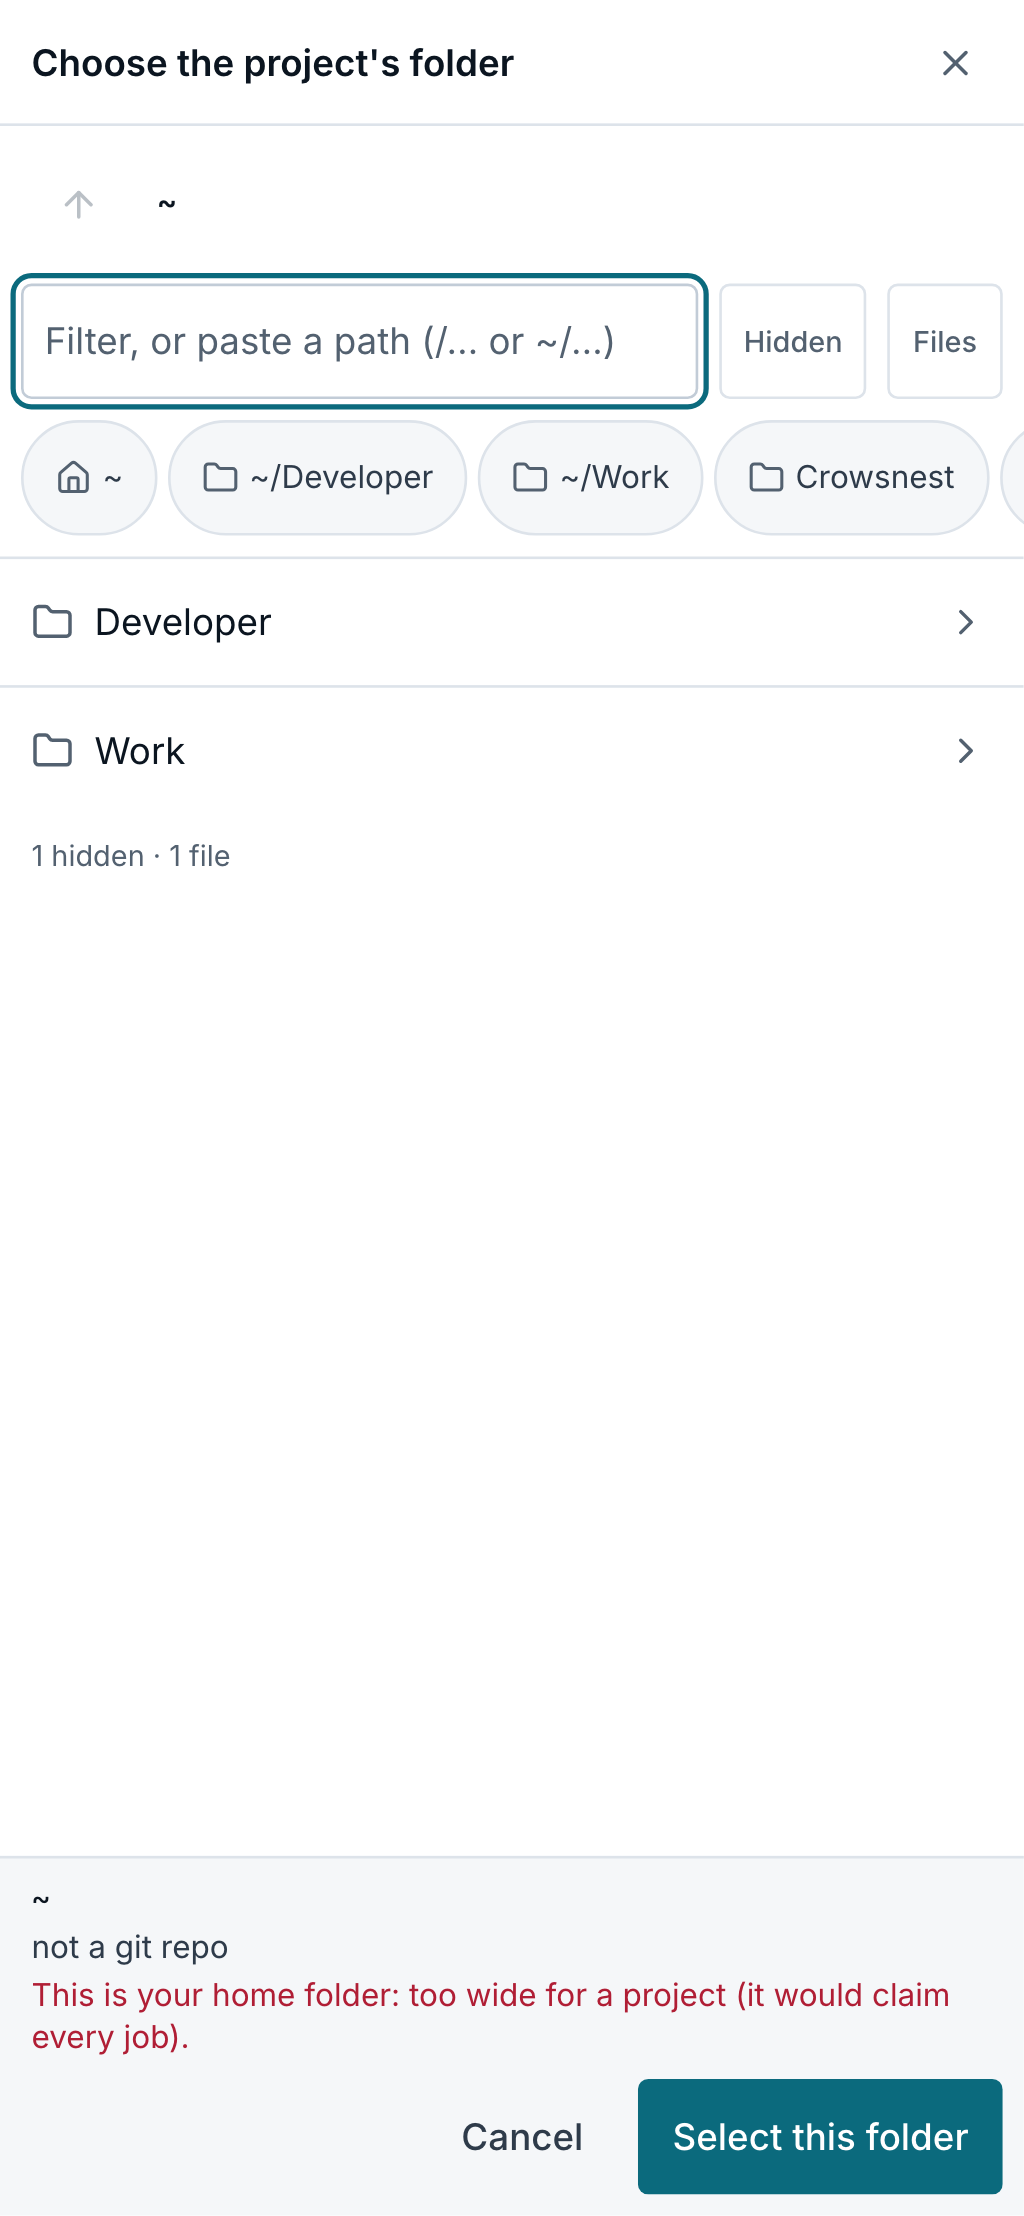
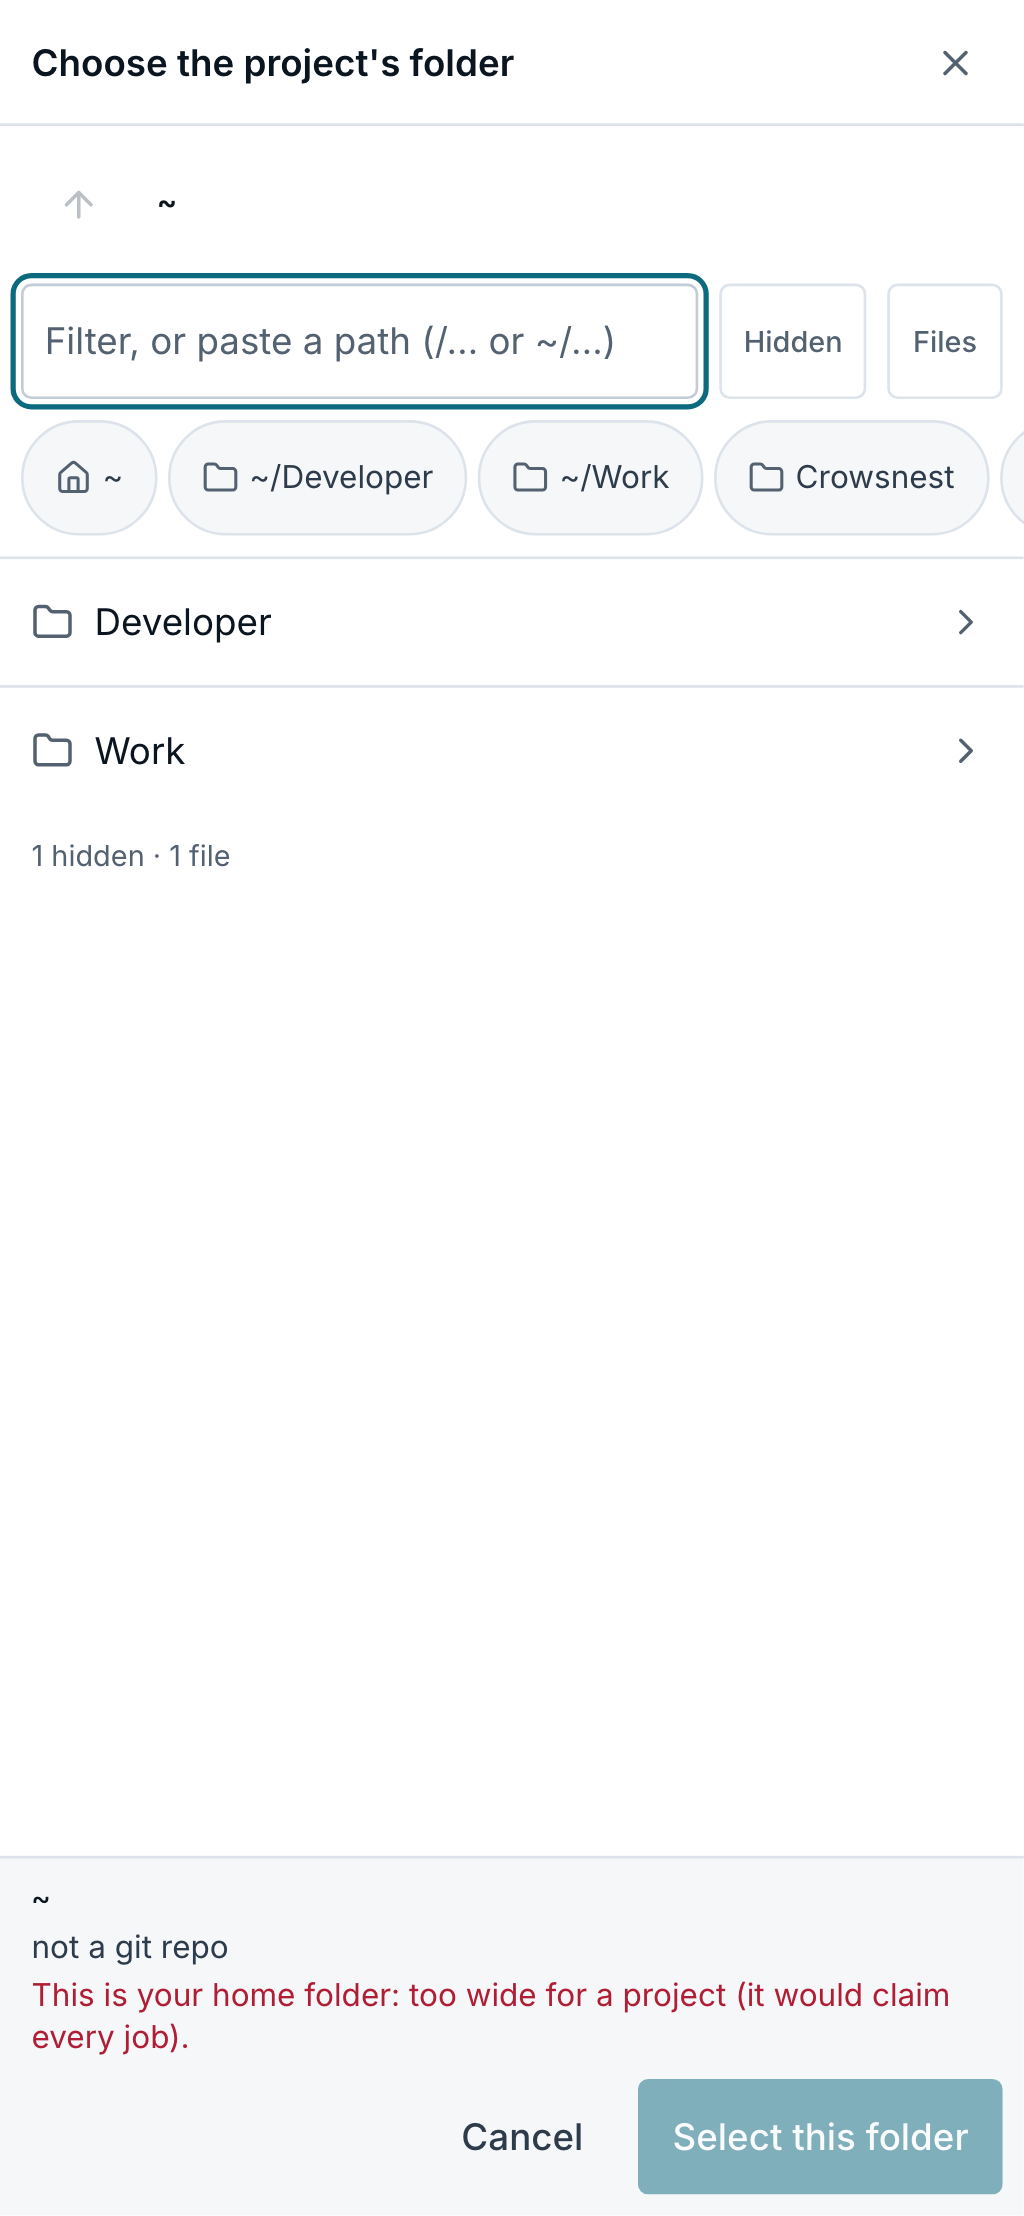
Folder picker enforces its own refusal; New project offers no worktrees (R10 O-B2, F-F14/O-F20)
Select this folder stays off on /, the home folder or an overlap, and after a refused pasted
path; the server refuses --demo's browse home as it refuses $HOME. No autofocus on touch.

Changed region(s): [[0.625, 0.9341, 1.0, 0.9964]]

diff --git a/web/src/components/browse/DirPicker.tsx b/web/src/components/browse/DirPicker.tsx
@@ -18,6 +18,7 @@ import {
   factsSummary,
   filterEntries,
   folderWarnings,
+  refusesFolder,
   hostNote,
   isPathInput,
   recentFolders,
@@ -31,6 +32,7 @@ import {
 } from "../../lib/browse";
 import { cn } from "../../lib/cn";
 import { relativeTime } from "../../lib/format";
+import { COARSE_POINTER_QUERY } from "../../lib/media";
 import { useBrowse, useBrowsePlaces, useFolderFacts } from "../../lib/queries";
 import { Button } from "../ui/Button";
 import { Sheet } from "../ui/Sheet";
@@ -109,7 +111,9 @@ function PickerBody({ onClose, onSelect, initialPath, purpose = "project" }: Omi
     const start = initialPath?.trim();
     void (async () => {
       if (!(start && (await go(start)))) await go("~");
-      if (!rootRef.current?.contains(document.activeElement)) filterRef.current?.focus();
+      // Not on a touch screen (R10 O-F20): the keyboard would cover half the list.
+      const touch = typeof window.matchMedia === "function" && window.matchMedia(COARSE_POINTER_QUERY).matches;
+      if (!touch && !rootRef.current?.contains(document.activeElement)) filterRef.current?.focus();
     })();
     // eslint-disable-next-line react-hooks/exhaustive-deps -- once, at opening
   }, []);
@@ -121,6 +125,10 @@ function PickerBody({ onClose, onSelect, initialPath, purpose = "project" }: Omi
   const factsPath = useDebounced(target, FACTS_DELAY_MS);
   const facts = useFolderFacts(factsPath);
   const currentFacts = facts.data && facts.data.path === target ? facts.data : undefined;
+  // Nothing to select: no folder, a pasted path that was refused (the listing stayed where it was,
+  // which is often home: Enter must not then choose home), or a folder this purpose refuses.
+  const refused = (!!error && !highlighted) || (purpose === "project" && (target === home || (!!currentFacts && refusesFolder(currentFacts, purpose))));
+  const selectable = !!target && !refused;
 
   // Keep the highlighted row in view as the keys move it.
   useEffect(() => {
@@ -136,7 +144,7 @@ function PickerBody({ onClose, onSelect, initialPath, purpose = "project" }: Omi
     if (entry && canEnter(entry)) void go(entry.path);
   };
   const select = () => {
-    if (!target) return;
+    if (!selectable) return;
     rememberFolder(target);
     onSelect(target, currentFacts);
     onClose();
@@ -243,7 +251,7 @@ function PickerBody({ onClose, onSelect, initialPath, purpose = "project" }: Omi
           <ListFooter listing={data} shown={shown.length} filtered={filter !== "" && !isPathInput(filter)} loading={listing.isPending && path !== ""} />
         </div>
       </div>
-      <FactsBar target={target} home={home} facts={currentFacts} loading={facts.isFetching} purpose={purpose} onCancel={onClose} onSelect={select} />
+      <FactsBar target={target} home={home} facts={currentFacts} loading={facts.isFetching} purpose={purpose} selectable={selectable} onCancel={onClose} onSelect={select} />
     </div>
   );
 }
@@ -465,12 +473,14 @@ interface FactsBarProps {
   facts?: FolderFacts;
   loading: boolean;
   purpose: "project" | "job";
+  /** False while a refusal is showing (or nothing is chosen): Select stays off. */
+  selectable: boolean;
   onCancel: () => void;
   onSelect: () => void;
 }
 
 /** The chosen folder, its facts and warnings, and the buttons: always in view. */
-function FactsBar({ target, home, facts, loading, purpose, onCancel, onSelect }: FactsBarProps) {
+function FactsBar({ target, home, facts, loading, purpose, selectable, onCancel, onSelect }: FactsBarProps) {
   const warnings = facts ? folderWarnings(facts, purpose) : [];
   const note = facts ? hostNote(facts) : "";
   return (
@@ -497,7 +507,7 @@ function FactsBar({ target, home, facts, loading, purpose, onCancel, onSelect }:
         <Button variant="ghost" onClick={onCancel}>
           Cancel
         </Button>
-        <Button variant="primary" onClick={onSelect} disabled={!target} title="Cmd/Ctrl+Enter">
+        <Button variant="primary" onClick={onSelect} disabled={!selectable} title="Cmd/Ctrl+Enter">
           Select this folder
         </Button>
       </div>

diff --git a/web/src/components/projects/ProjectForm.tsx b/web/src/components/projects/ProjectForm.tsx
@@ -9,8 +9,9 @@
 import { Check, ChevronDown, ChevronRight, FolderOpen, FolderSearch } from "lucide-react";
 import { useEffect, useId, useState, type FormEvent } from "react";
 import { factsSummary, folderWarnings, hostNote, isPathInput, type FolderFacts } from "../../lib/browse";
-import { leadStartLabels, permissionModes, suggestName, type AgentStartFinding, type LeadStart, type Project, type ProjectInput } from "../../lib/projects";
-import { useDirs, useEngines, useFolderFacts, useRoles } from "../../lib/queries";
+import { leadStartLabels, newProjectDirChoices, permissionModes, suggestName, type AgentStartFinding, type LeadStart, type Project, type ProjectInput } from "../../lib/projects";
+import { useDirs, useEngines, useFolderFacts, useProjects, useRoles } from "../../lib/queries";
+import { COARSE_POINTER_QUERY } from "../../lib/media";
 import { engineInfo, withoutSentence } from "../../lib/engines";
 import { DirPicker } from "../browse/DirPicker";
 import { Banner } from "../ui/Banner";
@@ -76,6 +77,7 @@ export function ProjectForm({ project, submitLabel, pending, error, onSubmit, on
   // start; until the facts say so (or the human chooses), unticked.
   const [trustChoice, setTrustChoice] = useState<boolean | null>(null);
   const dirs = useDirs();
+  const projects = useProjects();
   const roles = useRoles();
   const codexInfo = engineInfo(useEngines().data, "codex");
   const typed = useSettled(creating && isPathInput(dir) ? dir.trim() : "", TYPED_FACTS_DELAY_MS);
@@ -115,7 +117,9 @@ export function ProjectForm({ project, submitLabel, pending, error, onSubmit, on
     }, { checkCommand: checkCommand.trim(), detectedCheck: facts?.check_command ?? "", trustFolder: creating && trustFolder });
   };
 
-  const remembered = (dirs.data ?? []).slice(0, DIR_CHOICES);
+  const remembered = newProjectDirChoices(dirs.data ?? [], projects.data?.projects).slice(0, DIR_CHOICES);
+  // A phone's keyboard would cover the form and the Browse button: focus the path only with a mouse.
+  const finePointer = typeof window.matchMedia === "function" && !window.matchMedia(COARSE_POINTER_QUERY).matches;
   return (
     <form onSubmit={submit} aria-label={creating ? "New project" : "Edit project"} className="flex flex-col gap-3 p-4">
       <label className={labelClass}>
@@ -126,7 +130,7 @@ export function ProjectForm({ project, submitLabel, pending, error, onSubmit, on
           list={`${ids}-dirs`}
           placeholder="~/src/project"
           required
-          autoFocus={creating}
+          autoFocus={creating && finePointer}
           className={`${inputClass} font-mono`}
         />
         <datalist id={`${ids}-dirs`}>

diff --git a/web/e2e/hermetic/picker.spec.ts b/web/e2e/hermetic/picker.spec.ts
@@ -40,6 +40,8 @@ test("New project from the picker: browse to a repo, its facts, select it, the f
   await expect(dialog.getByRole("navigation", { name: "Places" }).filter({ visible: true }).getByRole("button", { name: /~\/Work/ })).toBeVisible();
   // Home itself is refused as a project, and the picker says so before anything is chosen.
   await expect(dialog.getByText(/your home folder: too wide/)).toBeVisible();
+  // ... and does not then let you choose it (R10 O-B2: Select stayed on and made a project there).
+  await expect(dialog.getByRole("button", { name: "Select this folder" })).toBeDisabled();
   await shot(page, testInfo, "home");
 
   await dialog.getByRole("button", { name: "Open Developer" }).click();
@@ -81,11 +83,17 @@ test("the palette's New project in…: a pasted path, a refused one, and an Azur
   const dialog = picker(page);
   await expect(folders(page, "~")).toBeVisible();
   const box = dialog.getByLabel("Filter folders, or paste a path");
-  await expect(box).toBeFocused();
+  // Focused with a mouse; on a touch screen the keyboard would cover half the list (R10 O-F20).
+  if (isPhone(testInfo)) await expect(box).not.toBeFocused();
+  else await expect(box).toBeFocused();
   await box.fill("/etc");
   await box.press("Enter");
   await expect(dialog.getByRole("alert")).toContainText("outside what the picker may browse");
   await expect(folders(page, "~")).toBeVisible();
+  // The refused path leaves nothing chosen: Enter again must not pick the home folder (R10 O-B2).
+  await expect(dialog.getByRole("button", { name: "Select this folder" })).toBeDisabled();
+  await box.press("Control+Enter");
+  await expect(dialog).toBeVisible();
 
   await box.fill("~/Developer/billing");
   await box.press("Enter");

diff --git a/web/src/lib/projects.ts b/web/src/lib/projects.ts
@@ -206,6 +206,31 @@ export function dirBasename(dir: string): string {
 }
 
 /** A project name suggested from a directory: its basename, words capitalised ("web-site" → "Web site"). */
+/**
+ * True when dir is a job's worktree (herdr's ~/.herdr/worktrees/…, or a .worktrees folder) or
+ * crowsnest's own data (the orchestrator's folder under ~/.local/share/crowsnest).
+ */
+export function isWorktreeDir(dir: string): boolean {
+  return /\/\.herdr\/worktrees\/|\/\.worktrees(\/|$)|\/\.local\/share\/crowsnest(\/|$)/.test(dir);
+}
+
+/**
+ * The remembered directories worth offering as a new project (R10 F-F14 / O-F20): never a job's
+ * worktree (job-120-checkout-redesign is not a project) and never a folder already in, or
+ * around, a live project, which the server refuses as an overlap.
+ */
+export function newProjectDirChoices<T extends { path: string }>(dirs: T[], projects: Pick<Project, "dir">[] | undefined): T[] {
+  const roots = (projects ?? []).map((project) => project.dir.replace(/\/+$/, ""));
+  // A folder with a project's own name is left out too: a suggestion list loses little, and the
+  // same checkout is often seen under another spelling (~/src/site, a link, /private/tmp).
+  const names = new Set(roots.map(dirBasename));
+  const overlaps = (path: string) => roots.some((root) => path === root || path.startsWith(`${root}/`) || root.startsWith(`${path}/`));
+  return dirs.filter((entry) => {
+    const path = entry.path.replace(/\/+$/, "");
+    return !isWorktreeDir(path) && !overlaps(path) && !names.has(dirBasename(path));
+  });
+}
+
 export function suggestName(dir: string): string {
   const base = dirBasename(dir).replace(/^\./, "");
   if (!base || base === "~") return "";

diff --git a/web/src/lib/browse.test.ts b/web/src/lib/browse.test.ts
@@ -1,5 +1,5 @@
 import { describe, expect, it } from "vitest";
-import { factsSummary, filterEntries, folderWarnings, hostNote, isPathInput, tildePath, type BrowseEntry, type FolderFacts } from "./browse";
+import { factsSummary, filterEntries, folderWarnings, hostNote, isPathInput, refusesFolder, tildePath, type BrowseEntry, type FolderFacts } from "./browse";
 
 function entry(name: string, extra: Partial<BrowseEntry> = {}): BrowseEntry {
   return { name, path: `/h/${name}`, dir: true, git: false, symlink: false, hidden: false, mtime: "", readable: true, ...extra };
@@ -77,5 +77,21 @@ describe("tildePath", () => {
     expect(tildePath("/h", "/h")).toBe("~");
     expect(tildePath("/h/x", "/h")).toBe("~/x");
     expect(tildePath("/hx", "/h")).toBe("/hx");
+  });
+});
+
+// R10 O-B2: the picker warned "too wide for a project" and then selected the home folder anyway.
+describe("refusesFolder", () => {
+  it("refuses, for a project, every folder it warns about in red", () => {
+    expect(refusesFolder(facts({ is_home: true }))).toBe(true);
+    expect(refusesFolder(facts({ is_filesystem_root: true }))).toBe(true);
+    expect(refusesFolder(facts({ project: { id: 1, slug: "site", name: "Site", dir: "/h/acme", exact: true } }))).toBe(true);
+    expect(refusesFolder(facts({ contains: [{ id: 1, slug: "site", name: "Site", dir: "/h/acme/site", exact: false }] }))).toBe(true);
+    expect(refusesFolder(facts())).toBe(false);
+    expect(refusesFolder(facts({ git: false }))).toBe(false); // a warning, not a refusal
+  });
+
+  it("refuses nothing for a job, which may run anywhere it is pointed", () => {
+    expect(refusesFolder(facts({ is_home: true }), "job")).toBe(false);
   });
 });

diff --git a/web/src/lib/projects.test.ts b/web/src/lib/projects.test.ts
@@ -6,9 +6,11 @@ import {
   filterFromParam,
   filterJobs,
   filterToParam,
+  isWorktreeDir,
   leadAgentName,
   leadChip,
   loadProjectFilter,
+  newProjectDirChoices,
   PROJECT_FILTER_KEY,
   resolveProjectFilter,
   saveProjectFilter,
@@ -116,5 +118,24 @@ describe("Chat's default target", () => {
     expect(defaultChatTarget({ state: "disabled" }, [lead("a", false), lead("b", true)])).toBe("lead-b");
     expect(defaultChatTarget({ state: "disabled" }, [lead("a", false)])).toBe("lead-a");
     expect(defaultChatTarget({ state: "disabled" }, [])).toBe("orchestrator");
+  });
+});
+
+// R10 F-F14 / O-F20: New project offered job-120-checkout-redesign before crowsnest.
+describe("a new project's directory choices", () => {
+  it("leaves out job worktrees and folders in or around a live project", () => {
+    const dirs = [
+      { path: "/h/src/.worktrees/job-120-checkout-redesign" },
+      { path: "/h/.herdr/worktrees/crowsnest/wip-ux1b" },
+      { path: "/h/src/website" },
+      { path: "/h/src/website/docs" },
+      { path: "/h/src" },
+      { path: "/h/src/mobile" },
+      { path: "~/src/website" }, // the same checkout, spelt another way
+      { path: "~/.local/share/crowsnest/orchestrator" },
+    ];
+    expect(newProjectDirChoices(dirs, [{ dir: "/h/src/website/" }]).map((entry) => entry.path)).toEqual(["/h/src/mobile"]);
+    expect(isWorktreeDir("/h/src/.worktrees")).toBe(true);
+    expect(isWorktreeDir("/h/src/worktrees-app")).toBe(false);
   });
 });

diff --git a/web/src/lib/browse.ts b/web/src/lib/browse.ts
@@ -192,6 +192,15 @@ export function folderWarnings(facts: FolderFacts, purpose: "project" | "job" = 
   return out;
 }
 
+/**
+ * True when the picker must not offer the folder at all (R10 O-B2): for a project, every danger
+ * warning (/, the home folder, an overlap) is a refusal the server makes too, so Select this folder
+ * stays off rather than warning and then letting it through.
+ */
+export function refusesFolder(facts: FolderFacts, purpose: "project" | "job" = "project"): boolean {
+  return purpose === "project" && folderWarnings(facts, purpose).some((warning) => warning.tone === "danger");
+}
+
 /** What Land can do with this folder's remote (pull requests are GitHub's only, through gh). */
 export function hostNote(facts: FolderFacts): string {
   if (!facts.git) return "";

diff --git a/internal/projects/projects_test.go b/internal/projects/projects_test.go
@@ -40,6 +40,28 @@ func mkdir(t *testing.T, path string) string {
 	return path
 }
 
+// R10 O-B2: under --demo the picker's home is <state>/demo-home; the picker said it was too wide
+// for a project and the server made one anyway. Other homes are refused as $HOME is.
+func TestCreateRefusesOtherHomes(t *testing.T) {
+	db, err := store.OpenMemory(context.Background())
+	if err != nil {
+		t.Fatal(err)
+	}
+	t.Cleanup(func() { _ = db.Close() })
+	home, demoHome := t.TempDir(), t.TempDir()
+	repo := mkdir(t, filepath.Join(demoHome, "Work", "site"))
+	svc := New(Options{Store: db, Home: home, OtherHomes: []string{demoHome}, Roles: func(string) bool { return true }})
+	ctx := context.Background()
+	for _, dir := range []string{demoHome, filepath.Dir(demoHome)} {
+		if _, err := svc.Create(ctx, Input{Name: ptr("x"), Dir: ptr(dir)}); err == nil || !contains(err.Error(), "too wide") {
+			t.Fatalf("%s: err %v, want too wide", dir, err)
+		}
+	}
+	if _, err := svc.Create(ctx, Input{Name: ptr("site"), Dir: ptr(repo)}); err != nil {
+		t.Fatalf("a repository under the other home is fine: %v", err)
+	}
+}
+
 func TestCreateValidates(t *testing.T) {
 	svc, _, home := newService(t)
 	ctx := context.Background()

diff --git a/cmd/crowsnest/browse_wiring.go b/cmd/crowsnest/browse_wiring.go
@@ -37,7 +37,7 @@ func newBrowser(cfg config.Config, sources browserSources) *browse.Service {
 	trust := &claudeTrust{path: claudeGlobalConfig(home)}
 	trusted := trust.trusted
 	if cfg.Demo {
-		home = filepath.Join(cfg.StateDir, "demo-home")
+		home = demoBrowseHome(cfg)
 		trusted = nil // the demo's folders are made up: nothing to tell
 	}
 	return browse.New(browse.Options{
@@ -149,9 +149,13 @@ var demoTreeFiles = map[string]string{
 	"todo.txt":                                         "the demo's file\n",
 }
 
+// demoBrowseHome is the folder picker's home under --demo: a small made-up tree, never the
+// machine's own home (DESIGN.md 4.23).
+func demoBrowseHome(cfg config.Config) string { return filepath.Join(cfg.StateDir, "demo-home") }
+
 // seedDemoTree writes the demo's home under its state directory (idempotent).
 func seedDemoTree(cfg config.Config) error {
-	home := filepath.Join(cfg.StateDir, "demo-home")
+	home := demoBrowseHome(cfg)
 	for name, body := range demoTreeFiles {
 		path := filepath.Join(home, name)
 		if err := os.MkdirAll(filepath.Dir(path), 0o700); err != nil {

diff --git a/internal/projects/projects.go b/internal/projects/projects.go
@@ -106,6 +106,9 @@ type Options struct {
 	Hub   *hub.Hub // nil: no `project` events
 	Roles RoleChecker
 	Home  string // $HOME, refused as a project root (and its ancestors)
+	// OtherHomes are refused exactly as Home is. Under --demo the folder picker's home is a
+	// throwaway tree (<state>/demo-home), and a project on it claimed every job (R10 O-B2).
+	OtherHomes []string
 	Now   func() time.Time
 }
 
@@ -356,6 +359,11 @@ func (s *Service) applyDir(ctx context.Context, record *store.ProjectRecord, dir
 	cleaned, resolved, err := CheckDir(dir, s.opts.Home)
 	if err != nil {
 		return err
+	}
+	for _, home := range s.opts.OtherHomes {
+		if _, _, err := CheckDir(cleaned, home); err != nil {
+			return err
+		}
 	}
 	record.Dir, record.RootDir = cleaned, resolved
 	if !record.ArchivedAt.IsZero() {

diff --git a/cmd/crowsnest/projects.go b/cmd/crowsnest/projects.go
@@ -61,7 +61,11 @@ func (w *projectWiring) useUpkeep(upkeep leadUpkeep) { w.upkeep.Store(&upkeep) }
 func newProjectWiring(cfg config.Config, db *store.Store, events *hub.Hub) *projectWiring {
 	roles, _ := jobs.LoadRoles(rolesDir(cfg))
 	home, _ := os.UserHomeDir()
-	return &projectWiring{service: projects.New(projects.Options{Store: db, Hub: events, Roles: roles.Has, Home: home})}
+	var otherHomes []string
+	if cfg.Demo {
+		otherHomes = []string{demoBrowseHome(cfg)}
+	}
+	return &projectWiring{service: projects.New(projects.Options{Store: db, Hub: events, Roles: roles.Has, Home: home, OtherHomes: otherHomes})}
 }
 
 // source is the jobs service's view of projects and leads.

diff --git a/DESIGN.md b/DESIGN.md
@@ -3740,7 +3740,13 @@ and workspace directories, and this browser's last eight choices in `localStorag
 badged and floated first, and a bar that never scrolls away with the highlighted folder's facts
 in a line ("git repo on GitHub, branch main, has a check task, AGENTS.md present"), what Land can
 do with its remote, the warnings (`lib/browse.ts`: not a repository, below a repository's top,
-inside or around a project, `$HOME` or `/`) and Select this folder. Keys in the box or on a row:
+inside or around a project, `$HOME` or `/`) and Select this folder, which stays off while a
+project's refusal shows or a pasted path was refused (R10 O-B2: it warned and then let the
+home folder through; `refusesFolder`; the server also refuses `--demo`'s browse home as it
+refuses `$HOME`, `projects.Options.OtherHomes`). New project's remembered directories leave out
+job worktrees, crowsnest's own data and folders in or around a live project
+(`newProjectDirChoices`); neither the form's path nor the picker's box takes focus on a touch
+screen, where the keyboard would cover the list. Keys in the box or on a row:
 ↑/↓ highlight, Enter or → open, Backspace in an empty box or ← up, Cmd/Ctrl+Enter select; a click
 highlights, a double click or the row's chevron opens. A move is fetched first and happens only
 on success, so a refused path leaves the listing and shows the refusal. It is used by New project
